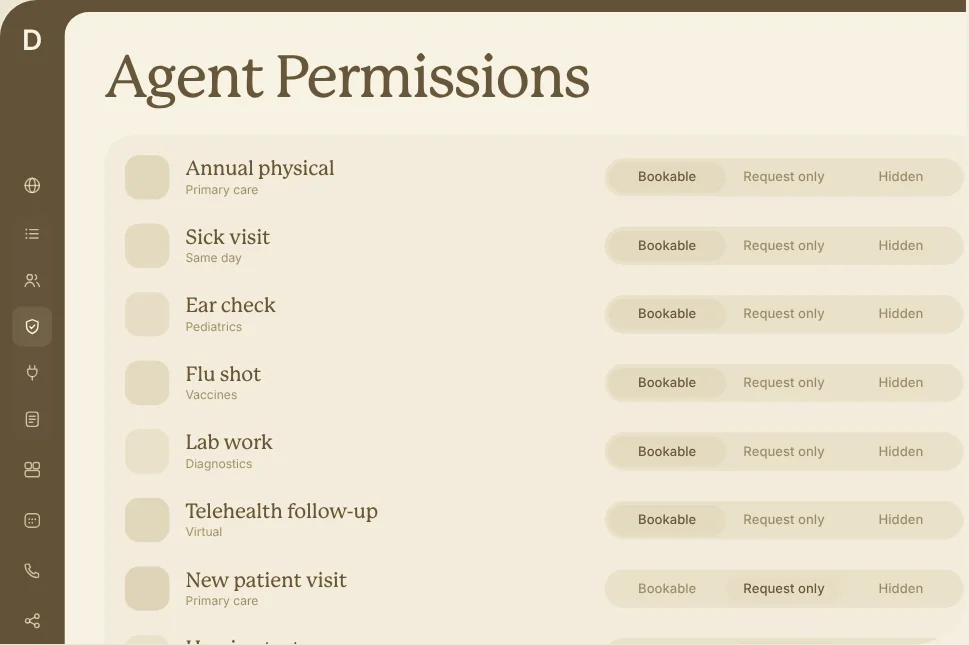
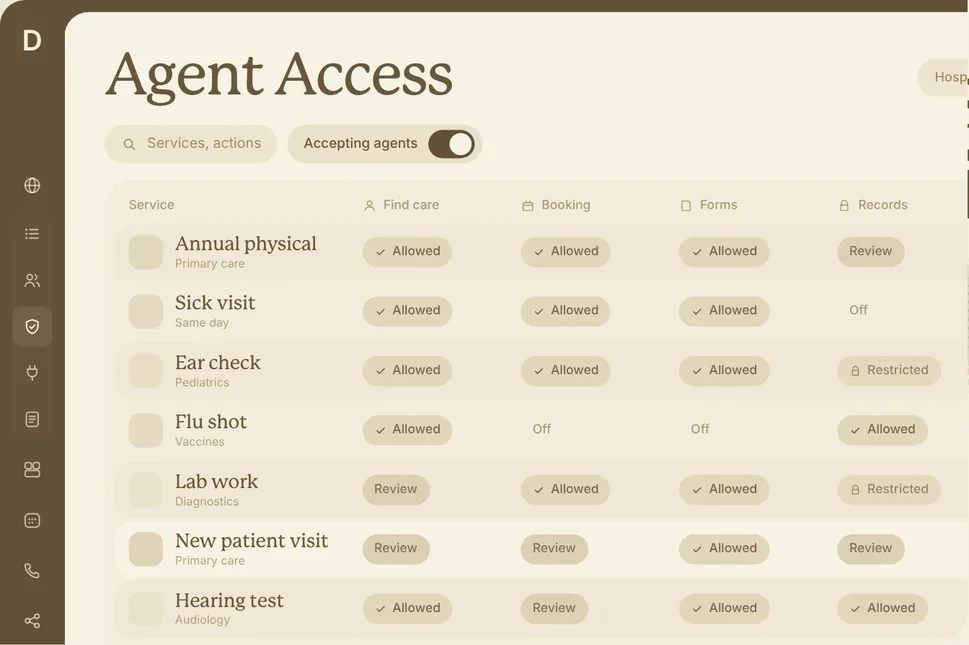
product: Agent Access matrix
Services against find care, booking, forms and records, each cell Allowed,
Review, Restricted or Off and one click to the next; the selected service
opens in a dark panel with its actions and the sites it applies to. Master
switch pauses agents. iPhone still re-captured.

Claude-Session: https://claude.ai/code/session_01EmNa9sU45d49GNut3o7Pn7

diff --git a/components/doehealth-product/DoeHealthProductPermissions.tsx b/components/doehealth-product/DoeHealthProductPermissions.tsx
@@ -1,9 +1,10 @@
 "use client";
 
 /**
- * Agent permissions tab — what patients' personal agents can do with this practice. Each service is
- * Bookable, Request only, or Hidden; a master switch pauses agents entirely, and a few toggles decide
- * what agents can see.
+ * Agent Access tab — what patients' agents may do with each service. A matrix of services against actions (find
+ * care, booking, forms, records); every cell is Allowed, Review (the practice confirms first), Restricted or Off,
+ * and a click moves it to the next. The selected service opens in the dark panel, which lists its actions and the
+ * sites it applies to. A master switch pauses agents entirely.
  */
 import { useState } from "react";
 
@@ -11,35 +12,72 @@ const DISPLAY = "font-['P22MackinacPro-Medium','P22_Mackinac_Pro',system-ui,sans
 const SANS = "font-['DM_Sans',system-ui,sans-serif]";
 const EASE = "cubic-bezier(0.32, 0.72, 0, 1)";
 
-type Mode = "bookable" | "request" | "hidden";
+type Level = "allowed" | "review" | "restricted" | "off";
 
-const MODES: { id: Mode; label: string; tone: string }[] = [
-  { id: "bookable", label: "Bookable", tone: "#DCE5D0" },
-  { id: "request", label: "Request only", tone: "#F3E7C9" },
-  { id: "hidden", label: "Hidden", tone: "#E6E0D2" },
-];
-const OPTION_W = 116;
+const LEVELS: Level[] = ["allowed", "review", "restricted", "off"];
 
-const SERVICES: { id: string; name: string; group: string; tile: string; mode: Mode }[] = [
-  { id: "physical", name: "Annual physical", group: "Primary care", tile: "#E9DCC7", mode: "bookable" },
-  { id: "sick", name: "Sick visit", group: "Same day", tile: "#F7DCCB", mode: "bookable" },
-  { id: "ear", name: "Ear check", group: "Pediatrics", tile: "#E3E9D9", mode: "bookable" },
-  { id: "flu", name: "Flu shot", group: "Vaccines", tile: "#DCE5D0", mode: "bookable" },
-  { id: "labs", name: "Lab work", group: "Diagnostics", tile: "#EEEADF", mode: "bookable" },
-  { id: "tele", name: "Telehealth follow-up", group: "Virtual", tile: "#E9DCC7", mode: "bookable" },
-  { id: "new", name: "New patient visit", group: "Primary care", tile: "#FCCFB8", mode: "request" },
-  { id: "hearing", name: "Hearing test", group: "Audiology", tile: "#EEEADF", mode: "request" },
-  { id: "aid", name: "Hearing aid fitting", group: "Audiology", tile: "#F7DCCB", mode: "hidden" },
-  { id: "procedure", name: "Minor procedure", group: "In office", tile: "#E3E9D9", mode: "hidden" },
+const PILL: Record<Level, { label: string; className: string }> = {
+  allowed: { label: "Allowed", className: "bg-[#D6DEC6] text-[#2F3B2A]" },
+  review: { label: "Review", className: "bg-[#F6C9B2] text-[#7A3E26]" },
+  restricted: { label: "Restricted", className: "bg-[#28191014] text-[rgba(40,25,16,0.65)]" },
+  off: { label: "Off", className: "bg-transparent text-[rgba(40,25,16,0.55)] shadow-[inset_0_0_0_1.5px_rgba(40,25,16,0.2)]" },
+};
+
+const ICON = {
+  find: "M12 12a4 4 0 1 0 0-8 4 4 0 0 0 0 8zM4 20c1-4 4-6 8-6s7 2 8 6",
+  book: "M4 7h16v13H4zM4 11h16M9 4v3M15 4v3",
+  forms: "M8 4h8l3 3v13H5V4z",
+  records: "M7 11V8a5 5 0 0 1 10 0v3M6 11h12v9H6z",
+};
+
+const ACTIONS = [
+  { id: "find", label: "Find care", icon: ICON.find },
+  { id: "book", label: "Booking", icon: ICON.book },
+  { id: "forms", label: "Forms", icon: ICON.forms },
+  { id: "records", label: "Records", icon: ICON.records },
+] as const;
+
+type ActionId = (typeof ACTIONS)[number]["id"];
+
+const SERVICES: { id: string; name: string; group: string; tile: string; levels: Record<ActionId, Level>; providers: number }[] = [
+  { id: "physical", name: "Annual physical", group: "Primary care", tile: "#E9DCC7", levels: { find: "allowed", book: "allowed", forms: "allowed", records: "review" }, providers: 5 },
+  { id: "sick", name: "Sick visit", group: "Same day", tile: "#F7DCCB", levels: { find: "allowed", book: "allowed", forms: "allowed", records: "off" }, providers: 5 },
+  { id: "ear", name: "Ear check", group: "Pediatrics", tile: "#E3E9D9", levels: { find: "allowed", book: "allowed", forms: "allowed", records: "restricted" }, providers: 2 },
+  { id: "flu", name: "Flu shot", group: "Vaccines", tile: "#DCE5D0", levels: { find: "allowed", book: "off", forms: "off", records: "allowed" }, providers: 3 },
+  { id: "labs", name: "Lab work", group: "Diagnostics", tile: "#EEEADF", levels: { find: "review", book: "allowed", forms: "allowed", records: "restricted" }, providers: 2 },
+  { id: "new", name: "New patient visit", group: "Primary care", tile: "#FCCFB8", levels: { find: "review", book: "review", forms: "allowed", records: "review" }, providers: 6 },
+  { id: "hearing", name: "Hearing test", group: "Audiology", tile: "#EEEADF", levels: { find: "allowed", book: "review", forms: "allowed", records: "allowed" }, providers: 2 },
+  { id: "aid", name: "Hearing aid fitting", group: "Audiology", tile: "#F7DCCB", levels: { find: "restricted", book: "review", forms: "off", records: "allowed" }, providers: 1 },
+  { id: "procedure", name: "Minor procedure", group: "In office", tile: "#E3E9D9", levels: { find: "restricted", book: "restricted", forms: "allowed", records: "restricted" }, providers: 2 },
 ];
 
-const VISIBLE = [
-  { id: "prices", label: "Prices", on: true },
-  { id: "availability", label: "Live availability", on: true },
-  { id: "insurance", label: "Insurance accepted", on: true },
-  { id: "bios", label: "Provider bios", on: true },
-  { id: "waits", label: "Wait times", on: false },
-];
+const VIEWS = ["Hospital", "Department", "Service", "Action"];
+const SITES = ["Main clinic", "Mission"];
+
+const next = (level: Level): Level => LEVELS[(LEVELS.indexOf(level) + 1) % LEVELS.length]!;
+
+function LevelPill({ level, onClick, label }: { level: Level; onClick: () => void; label: string }) {
+  const p = PILL[level];
+  return (
+    <button
+      type="button"
+      aria-label={label}
+      onClick={onClick}
+      className={`flex items-center gap-[6px] h-[30px] px-[12px] rounded-[999px] text-[12.5px] leading-[16px] ${SANS} font-[500] transition-colors duration-200 ${p.className}`}
+    >
+      {level === "allowed" ? (
+        <svg width="12" height="12" viewBox="0 0 24 24" aria-hidden="true" style={{ display: "block" }}>
+          <path d="M5 12.5l4.5 4.5L19 7.5" fill="none" stroke="currentColor" strokeWidth="2.4" strokeLinecap="round" strokeLinejoin="round" />
+        </svg>
+      ) : level === "restricted" ? (
+        <svg width="12" height="12" viewBox="0 0 24 24" aria-hidden="true" style={{ display: "block" }}>
+          <path d={ICON.records} fill="none" stroke="currentColor" strokeWidth="2" strokeLinecap="round" strokeLinejoin="round" />
+        </svg>
+      ) : null}
+      {p.label}
+    </button>
+  );
+}
 
 function Toggle({ on, onChange, label }: { on: boolean; onChange: () => void; label: string }) {
   return (
@@ -59,97 +97,164 @@ function Toggle({ on, onChange, label }: { on: boolean; onChange: () => void; la
   );
 }
 
-function ModeSwitch({ mode, onChange, disabled }: { mode: Mode; onChange: (m: Mode) => void; disabled: boolean }) {
-  const index = MODES.findIndex((m) => m.id === mode);
+function Icon({ d, size = 16 }: { d: string; size?: number }) {
   return (
-    <div className="relative flex h-[38px] p-[4px] shrink-0 rounded-[999px] bg-[#EEEADF]">
-      <span
-        className="absolute top-[4px] bottom-[4px] rounded-[999px]"
-        style={{
-          width: OPTION_W,
-          left: 4 + index * OPTION_W,
-          backgroundColor: MODES[index]!.tone,
-          transition: `left 300ms ${EASE}, background-color 300ms ${EASE}`,
-        }}
-      />
-      {MODES.map((m) => (
-        <button
-          key={m.id}
-          type="button"
-          disabled={disabled}
-          onClick={() => onChange(m.id)}
-          className={`relative rounded-[999px] text-[13px] leading-[16px] ${SANS} font-[500] transition-colors duration-150 ${mode === m.id ? "text-walnut" : "text-sub hover:text-walnut"}`}
-          style={{ width: OPTION_W }}
-        >
-          {m.label}
-        </button>
-      ))}
-    </div>
+    <svg width={size} height={size} viewBox="0 0 24 24" aria-hidden="true" style={{ display: "block", flexShrink: 0 }}>
+      <path d={d} fill="none" stroke="currentColor" strokeWidth="1.7" strokeLinecap="round" strokeLinejoin="round" />
+    </svg>
   );
 }
 
 export function DoeHealthProductPermissionsPage() {
   const [accepting, setAccepting] = useState(true);
-  const [modes, setModes] = useState<Record<string, Mode>>(() => Object.fromEntries(SERVICES.map((s) => [s.id, s.mode])));
-  const [visible, setVisible] = useState<Record<string, boolean>>(() => Object.fromEntries(VISIBLE.map((v) => [v.id, v.on])));
-  const count = (m: Mode) => SERVICES.filter((s) => modes[s.id] === m).length;
+  const [view, setView] = useState("Service");
+  const [selected, setSelected] = useState("new");
+  const [levels, setLevels] = useState<Record<string, Record<ActionId, Level>>>(() => Object.fromEntries(SERVICES.map((s) => [s.id, { ...s.levels }])));
+  const [sites, setSites] = useState<Record<string, boolean>>({ "Main clinic": true, Mission: true });
+
+  const cycle = (id: string, action: ActionId) => setLevels((prev) => ({ ...prev, [id]: { ...prev[id]!, [action]: next(prev[id]![action]) } }));
+  const service = SERVICES.find((s) => s.id === selected)!;
+  const selectedLevels = levels[selected]!;
+  const counts = LEVELS.map((l) => SERVICES.reduce((n, s) => n + ACTIONS.filter((a) => levels[s.id]![a.id] === l).length, 0));
 
   return (
-    <div className="relative [font-synthesis:none] h-full w-full flex flex-col gap-[24px] pt-[36px] px-[40px] pb-[28px] rounded-[24px] overflow-clip bg-paper antialiased">
-
-      <div className="relative flex items-end justify-between">
-        <span className={`text-[58px] leading-[62px] tracking-[-0.03em] ${DISPLAY} text-walnut`}>Agent Permissions</span>
+    <div className="relative [font-synthesis:none] h-full w-full flex flex-col gap-[16px] pt-[34px] px-[40px] pb-[28px] rounded-[24px] overflow-clip bg-paper antialiased">
+      <div className="relative flex items-center justify-between">
+        <span className={`text-[58px] leading-[62px] tracking-[-0.03em] ${DISPLAY} text-walnut`}>Agent Access</span>
+        <span className="flex items-center gap-[10px]">
+          <span className="flex p-[3px] gap-[2px] rounded-[999px] bg-[#F4EEDF]" role="tablist" aria-label="Group by">
+            {VIEWS.map((v) => (
+              <button
+                key={v}
+                type="button"
+                role="tab"
+                aria-selected={view === v}
+                onClick={() => setView(v)}
+                className={`h-[32px] px-[15px] rounded-[999px] text-[13px] leading-[16px] ${SANS} font-[500] transition-colors duration-150 ${view === v ? "bg-paper text-ink" : "text-sub hover:text-walnut"}`}
+              >
+                {v}
+              </button>
+            ))}
+          </span>
+          <span className={`flex items-center gap-[8px] h-[40px] px-[18px] rounded-[999px] bg-ink text-[14px] leading-[18px] ${SANS} font-[500] [color:#FFFCF1]`}>
+            <Icon d="M12 3.8l6.8 2.6v5.1c0 4.2-2.8 7.4-6.8 8.8-4-1.4-6.8-4.6-6.8-8.8V6.4z" />
+            Policy log
+          </span>
+        </span>
       </div>
 
-      <div className="relative flex grow min-h-[0px] gap-[12px]">
+      <div className="relative flex items-center gap-[10px] shrink-0">
+        <span className={`flex items-center gap-[10px] h-[38px] px-[16px] rounded-[999px] bg-[#F4EEDF] text-[14px] leading-[18px] ${SANS} text-sub`}>
+          <Icon d="M11 5a6 6 0 1 0 0 12 6 6 0 0 0 0-12zM16 16l4 4" />
+          Services, actions
+        </span>
+        <span className="flex items-center gap-[10px] h-[38px] pl-[16px] pr-[8px] rounded-[999px] bg-[#28191014]">
+          <span className={`text-[13.5px] leading-[18px] ${SANS} font-[500] text-walnut`}>{accepting ? "Accepting agents" : "Agents paused"}</span>
+          <Toggle on={accepting} onChange={() => setAccepting((v) => !v)} label="Accept agents" />
+        </span>
+        <span className="grow" />
+        {LEVELS.map((l, i) => (
+          <span key={l} className={`flex items-center gap-[6px] h-[26px] px-[11px] rounded-[999px] text-[12px] leading-[16px] ${SANS} font-[500] ${PILL[l].className}`}>
+            {PILL[l].label}
+            <span className="opacity-60 [font-variant-numeric:tabular-nums]">{counts[i]}</span>
+          </span>
+        ))}
+      </div>
+
+      <div className="relative flex grow min-h-[0px] gap-[14px]">
         <div
-          className="grow min-w-[0px] flex flex-col p-[8px] rounded-[28px] bg-[#FAF6EC] overflow-y-auto overscroll-y-none [scrollbar-width:none] [&::-webkit-scrollbar]:hidden"
+          className="grow min-w-[0px] flex flex-col pt-[8px] px-[10px] rounded-[28px] bg-[#FAF6EC] overflow-y-auto overscroll-y-none [scrollbar-width:none] [&::-webkit-scrollbar]:hidden"
           style={{ opacity: accepting ? 1 : 0.5, transition: `opacity 300ms ${EASE}` }}
         >
-          {SERVICES.map((s) => (
-            <div key={s.id} className="flex items-center gap-[16px] h-[68px] shrink-0 pl-[12px] pr-[12px] rounded-[22px] hover:bg-sand transition-colors duration-150">
-              <span className="w-[44px] h-[44px] shrink-0 rounded-[14px]" style={{ backgroundColor: s.tile }} />
-              <span className="flex flex-col grow min-w-[0px]">
-                <span className={`truncate text-[20px] leading-[24px] tracking-[-0.01em] ${DISPLAY} text-walnut`}>{s.name}</span>
-                <span className={`truncate text-[12px] leading-[16px] ${SANS} text-sub`}>{s.group}</span>
+          <div className={`grid grid-cols-[1.5fr_repeat(4,1fr)] items-center gap-[8px] h-[36px] shrink-0 px-[14px] text-[12.5px] leading-[16px] ${SANS} font-[500] text-[rgba(40,25,16,0.55)]`}>
+            <span>Service</span>
+            {ACTIONS.map((a) => (
+              <span key={a.id} className="flex items-center gap-[7px]">
+                <Icon d={a.icon} size={14} />
+                {a.label}
               </span>
-              <ModeSwitch mode={modes[s.id]!} disabled={!accepting} onChange={(m) => setModes((prev) => ({ ...prev, [s.id]: m }))} />
-            </div>
-          ))}
+            ))}
+          </div>
+          {SERVICES.map((s, i) => {
+            const on = selected === s.id;
+            return (
+              <div
+                key={s.id}
+                role="row"
+                onClick={() => setSelected(s.id)}
+                className={`grid grid-cols-[1.5fr_repeat(4,1fr)] items-center gap-[8px] h-[56px] shrink-0 px-[14px] rounded-[18px] mb-[3px] cursor-pointer transition-colors duration-150 ${
+                  on ? "bg-paper shadow-[inset_0_0_0_1.5px_#140C04]" : i % 2 === 0 ? "bg-[rgba(244,238,223,0.6)] hover:bg-[#F4EEDF]" : "hover:bg-[#F4EEDF]"
+                }`}
+              >
+                <span className="flex items-center gap-[12px] min-w-[0px]">
+                  <span className="w-[34px] h-[34px] shrink-0 rounded-[11px]" style={{ backgroundColor: s.tile }} />
+                  <span className="flex flex-col min-w-[0px]">
+                    <span className={`truncate text-[19px] leading-[22px] tracking-[-0.01em] ${DISPLAY} text-walnut`}>{s.name}</span>
+                    <span className={`truncate text-[11.5px] leading-[15px] ${SANS} text-[rgba(40,25,16,0.5)]`}>{s.group}</span>
+                  </span>
+                </span>
+                {ACTIONS.map((a) => (
+                  <span key={a.id} onClick={(e) => e.stopPropagation()} className="flex">
+                    <LevelPill level={levels[s.id]![a.id]} label={`${s.name}, ${a.label}`} onClick={() => cycle(s.id, a.id)} />
+                  </span>
+                ))}
+              </div>
+            );
+          })}
         </div>
 
-        <div className="w-[400px] shrink-0 flex flex-col gap-[12px]">
-          <div
-            className="flex items-center justify-between gap-[16px] p-[20px] rounded-[28px]"
-            style={{ backgroundColor: accepting ? "#DCE5D0" : "#EEEADF", transition: `background-color 300ms ${EASE}` }}
-          >
-            <span className="flex flex-col gap-[2px]">
-              <span className={`text-[22px] leading-[26px] tracking-[-0.01em] ${DISPLAY} text-walnut`}>{accepting ? "Accepting agents" : "Agents paused"}</span>
-              <span className={`text-[12px] leading-[16px] ${SANS} font-[500] text-walnut opacity-70`}>
-                {accepting ? "31 visited today" : "Agents are asked to call instead"}
+        <div className="w-[370px] shrink-0 flex flex-col gap-[10px] p-[20px] rounded-[28px] bg-ink [color:#FFFCF1] overflow-hidden">
+          <span className="flex items-center gap-[12px]">
+            <span className="w-[40px] h-[40px] shrink-0 rounded-[12px]" style={{ backgroundColor: service.tile }} />
+            <span className={`grow min-w-[0px] text-[28px] leading-[30px] tracking-[-0.01em] ${DISPLAY}`}>{service.name}</span>
+          </span>
+          <span className="flex gap-[6px]">
+            {[service.group, `${service.providers} providers`].map((c) => (
+              <span key={c} className={`flex items-center h-[26px] px-[11px] rounded-[999px] bg-[#FFFCF11F] text-[12px] leading-[16px] ${SANS} font-[500]`}>
+                {c}
               </span>
+            ))}
+          </span>
+
+          <span className={`mt-[8px] text-[11.5px] leading-[14px] tracking-[0.07em] uppercase ${SANS} font-[500] text-[#FFFCF180]`}>Actions</span>
+          {ACTIONS.map((a) => {
+            const level = selectedLevels[a.id];
+            const lit = level === "allowed";
+            return (
+              <div
+                key={a.id}
+                className={`flex items-center gap-[12px] h-[52px] shrink-0 px-[14px] rounded-[16px] ${SANS} text-[14px] leading-[18px] font-[500] transition-colors duration-200 ${lit ? "bg-paper text-walnut" : "bg-[#FFFCF114]"}`}
+              >
+                <span className="opacity-70">
+                  <Icon d={a.icon} />
+                </span>
+                <span className="grow">{a.label}</span>
+                <LevelPill level={level} label={`${service.name}, ${a.label}`} onClick={() => cycle(selected, a.id)} />
+              </div>
+            );
+          })}
+
+          <span className={`mt-[8px] text-[11.5px] leading-[14px] tracking-[0.07em] uppercase ${SANS} font-[500] text-[#FFFCF180]`}>Applies to</span>
+          <span className="flex flex-wrap gap-[6px]">
+            {SITES.map((site) => {
+              const on = sites[site];
+              return (
+                <button
+                  key={site}
+                  type="button"
+                  aria-pressed={on}
+                  onClick={() => setSites((prev) => ({ ...prev, [site]: !prev[site] }))}
+                  className={`flex items-center h-[30px] px-[13px] rounded-[999px] text-[12.5px] leading-[16px] ${SANS} font-[500] transition-colors duration-150 ${on ? "bg-[#FFFCF11F]" : "bg-transparent shadow-[inset_0_0_0_1.5px_#FFFCF14D] text-[#FFFCF199]"}`}
+                >
+                  {site}
+                </button>
+              );
+            })}
+            <span className={`flex items-center gap-[6px] h-[30px] px-[13px] rounded-[999px] text-[12.5px] leading-[16px] ${SANS} font-[500] shadow-[inset_0_0_0_1.5px_#FFFCF14D]`}>
+              <Icon d="M12 5v14M5 12h14" size={13} />
+              Add site
             </span>
-            <Toggle on={accepting} onChange={() => setAccepting((v) => !v)} label="Accept agents" />
-          </div>
-
-          <div className="grid grid-cols-3 gap-[8px]">
-            {MODES.map((m) => (
-              <div key={m.id} className="flex flex-col gap-[4px] p-[16px] rounded-[24px]" style={{ backgroundColor: m.tone }}>
-                <span className={`text-[34px] leading-[38px] tracking-[-0.02em] ${DISPLAY} text-ink`}>{count(m.id)}</span>
-                <span className={`text-[12px] leading-[16px] ${SANS} font-[500] text-walnut opacity-70`}>{m.label}</span>
-              </div>
-            ))}
-          </div>
-
-          <div className="flex flex-col grow min-h-[0px] p-[8px] rounded-[28px] bg-[#FAF6EC]">
-            <span className={`px-[12px] pt-[12px] pb-[6px] text-[22px] leading-[26px] tracking-[-0.01em] ${DISPLAY} text-walnut`}>Agents can see</span>
-            {VISIBLE.map((v) => (
-              <div key={v.id} className="flex items-center justify-between h-[52px] px-[12px] rounded-[18px] hover:bg-sand transition-colors duration-150">
-                <span className={`text-[14px] leading-[18px] ${SANS} font-[500] text-walnut`}>{v.label}</span>
-                <Toggle on={!!visible[v.id]} label={v.label} onChange={() => setVisible((prev) => ({ ...prev, [v.id]: !prev[v.id] }))} />
-              </div>
-            ))}
-          </div>
+          </span>
         </div>
       </div>
     </div>
